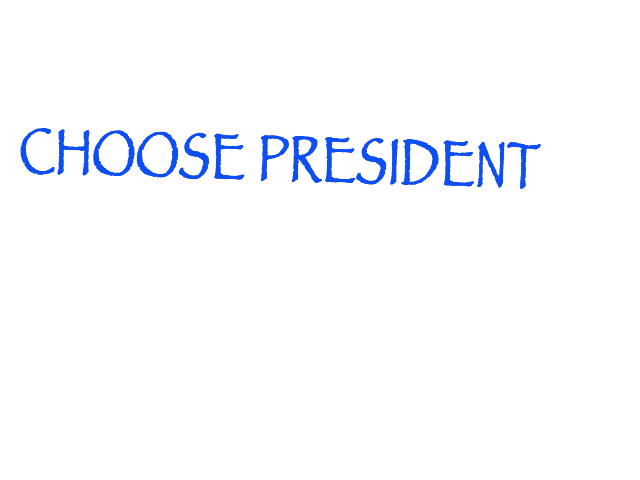
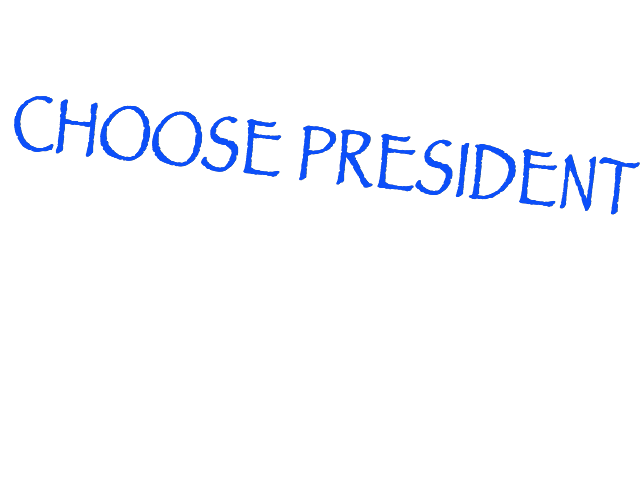
more styling. created factory fo rnavbar highlight, new template for choices.html

Changed region(s): [[0.0, 0.1875, 1.0, 0.4375]]

diff --git a/client/controllers.js b/client/controllers.js
@@ -1,11 +1,13 @@
 angular.module('newSpeakApp')
-.controller('MainController', function ($scope, grabSOTUinfo, transferData) {
-  $scope.test = 'this worked!';
-  $scope.greeting = "Resize the page to see the re-rendering";
+.controller('MainController', function ($scope, $location, grabSOTUinfo, transferData, navBar) {
+  navBar.highlight();
   $scope.presidents = transferData.presidents;
-  $scope.tempPresident = '';
-  $scope.president;
-  $scope.suggested;
+  $scope.tempPresident = transferData.tempPresident;
+  $scope.president = transferData.president;
+  $scope.suggested = transferData.suggested;
+  if ($scope.suggested === null && $location.$$url === '/choices') {
+    $location.url('/');
+  }
   $scope.setPres = function(pres) {
     $scope.president = pres;
     grabSOTUinfo.getTopWords($scope.president)
@@ -13,12 +15,19 @@ angular.module('newSpeakApp')
       return JSON.parse(data);
     })
     .then(function(parsed) {
-      $scope.suggested = parsed;
+      transferData.save(parsed, $scope.president, $scope.tempPresident);
+    }).then(function() {
+      $location.url('choices');
     });
   };
+  $scope.sendData = function(word) {
+    transferData.saveWord(word);
+    $location.url('charts');
+  };
 })
-.controller('collocationAndFrequencyController', function ($scope, grabSOTUinfo, treeConvert, graphConvert, transferData) {
-  $scope.hello = function(pres) {
+.controller('collocationAndFrequencyController', function ($scope, grabSOTUinfo, treeConvert, graphConvert, transferData, navBar) {
+  navBar.highlight();
+  $scope.startOver = function(pres) {
     alert(pres);
   };
   $scope.barData = [
@@ -46,9 +55,9 @@ angular.module('newSpeakApp')
         {word: 'putin', size: 1}
       ]
     };
-  $scope.tempPresident = '';
-  $scope.president;
-  $scope.word = '';
+  $scope.tempPresident = transferData.tempPresident;
+  $scope.president = transferData.president;
+  $scope.word = transferData.word;
   var series1 = [{x:1, y: 400}, {x:2, y: 30}, {x:3, y: 905}, {x:4, y: 150}];
   var series2 = [{x:1, y: 800}, {x:2, y: 300}, {x:3, y: 95}, {x:4, y: 550}];
   var series3 = [{x:1, y: 100}, {x:2, y: 320}, {x:3, y: 50}, {x:4, y: 550}];

diff --git a/client/style.css b/client/style.css
@@ -58,7 +58,7 @@
 }
 
 #menu ul {
-  font-size: 10px;
+  font-size: 13px;
   margin:0;
   padding:0;
   list-style: none;
@@ -72,7 +72,7 @@
 
 #menu li a {
   display: block;
-  padding: 20px 20px 19px 20px;
+  padding: 25px 20px 23px 20px;
   text-decoration: none;
   color: #fff;
   font-weight: bold;
@@ -108,16 +108,61 @@
   float: right;
 }
 
-.rightColumn.colfreq {
+#colfreq {
   text-align: center;
 }
 
-ul {
+#postPick {
+  text-align: center;
+}
+
+/**** main.html ***/
+
+#wordPic {
+  position: relative;
+  left: 200px;
+}
+
+#arrow {
+  position: relative;
+  top: -350px;
+}
+
+/**** choices.html ***/
+
+h1 {
+  font-family: fantasy;
+  color: rgb(12,79,249);
+  font-size: 46px;
+  margin-bottom: 10px;
+}
+
+h2 {
+  font-family: fantasy;
+  color: rgb(12,79,249);
+  font-size: 37px;
+  margin-top: 10px;
+}
+
+#postPick ul {
+  font-family: fantasy;
+  font-size: 25px;
+  list-style-type: none;
+  padding-left: 0px;
+}
+
+#postPick a:hover {
+  color: rgb(255, 26, 26);
+}
+
+/**** president list styling ***/
+
+.leftColumn ul {
   list-style-type: none;
   padding-left: 3px;
 }
 
-li:hover {
+.leftColumn li:hover {
   background: rgb(165, 184, 242);
 }
 

diff --git a/client/factories/transferData.js b/client/factories/transferData.js
@@ -2,9 +2,10 @@ angular.module('newSpeakApp')
 .factory('transferData', function() {
 
   var service = {
-    save: function(president, word) {
-      
-    },
+    suggested: null,
+    president: null,
+    tempPresident: '',
+    word: null,
 
     presidents: ['George Washington', 'John Adams', 'Thomas Jefferson', 'James Madison', 'James Monroe',
         'John Quincy Adams', 'Andrew Jackson', 'Martin Van Buren', 'William H. Harrison', 'John Tyler', 'James K. Polk',
@@ -14,7 +15,17 @@ angular.module('newSpeakApp')
         'Woodrow Wilson', 'Warren G. Harding', 'Calvin Coolidge', 'Herbert Hoover', 'Franklin D. Roosevelt',
         'Harry S. Truman', 'Dwight D. Eisenhower', 'John F. Kennedy', 'Lyndon B. Johnson', 'Richard M. Nixon',
         'Gerald R. Ford', 'Jimmy Carter', 'Ronald Reagan','George H. W. Bush', 'Bill Clinton', 'George W. Bush', 'Barack Obama'
-      ]
+      ],
+
+    save: function(words, president, tempPresident) {
+      this.suggested = words;
+      this.president = president;
+      this.tempPresident = tempPresident;
+    },
+
+    saveWord: function(word) {
+      this.word = word;
+    },
 
   };//end of service object
   

diff --git a/client/templates/main.html b/client/templates/main.html
@@ -1,26 +1,17 @@
-<h3>Welcome to the main screen</h3>
-
-{{ greeting }}
-{{suggested}}
-
 <div class='leftColumn'>
 	<form>
-	  <input type="text" placeholder="Type for president" ng-model="president" />
+	  <input type="text" placeholder="Type for president" ng-model="tempPresident" />
 	</form>
 
-	<ul ng-show="president === ''">
-	  <li ng-repeat='pres in presidents'>
-	    <a ng-click="setPres(pres)">{{ pres }}</a>
-	  </li>
+	<ul ng-show="tempPresident === ''">
+	  <li ng-repeat='pres in presidents' ng-click="setPres(pres)">{{ pres }}</li>
 	</ul>
-	<ul ng-show="president !== ''">
-  	<li ng-repeat='pres in presidents | filter: president'>
-    	<a ng-click="setPres(pres)">{{ pres }}</a>
-  	</li>
+	<ul ng-show="tempPresident !== ''">
+  	<li ng-repeat='pres in presidents | filter: tempPresident' ng-click="setPres(pres)">{{ pres }}</li>
 	</ul>
 </div>
 
-<div class='rightColumn main'>
-	<img id="choice" src="../images/choice.png">
+<div class='rightColumn'>
+	<img id="wordPic" src="../images/choice.png">
 	<img id="arrow" src="../images/arrow.png">
 </div>

diff --git a/client/index.html b/client/index.html
@@ -46,32 +46,7 @@
 		<script src="/client/factories/treeConvert.js"></script>
 		<script src="/client/factories/graphConvert.js"></script>
 		<script src="/client/factories/transferData.js"></script>
-		<script>
-			//script for navbar
-			var anchors = document.getElementsByTagName('a');
-			var menu = document.getElementById('menu');
-			var menuAnchors = menu.getElementsByTagName('a');
-			
-			var checkCurrent = function() {
-				for (a = 0; a < menuAnchors.length; a++) {
-					menuAnchors[a].className = null;
-					if (menuAnchors[a].hash === window.location.hash) {
-						menuAnchors[a].className += 'current';
-					}
-				}
-			};
-
-			//run initially
-			checkCurrent();
-
-			//set up listeners
-			for (var i = 0; i<anchors.length; i++) {
-				anchors[i].onclick = function() {
-					setTimeout(checkCurrent, 50);
-				};
-			}
-
-		</script>
+		<script src="/client/factories/navBar.js"></script>
 
 	</body>
 </html>

diff --git a/client/factories/navBar.js b/client/factories/navBar.js
@@ -1,0 +1,34 @@
+angular.module('newSpeakApp')
+.factory('navBar', function() {
+
+  var service = {
+    highlight: function() {
+			var menu = document.getElementById('menu');
+			var menuAnchors = menu.getElementsByTagName('a');
+			
+			var checkCurrent = function() {
+				for (a = 0; a < menuAnchors.length; a++) {
+					menuAnchors[a].className = null;
+					if (window.location.hash === menuAnchors[a].hash) {
+						menuAnchors[a].className += 'current';
+					} else if (window.location.hash === '#/choices' && menuAnchors[0].className !== 'current') {
+						menuAnchors[0].className += 'current';
+					}
+				}
+			};
+
+			//run initially
+			checkCurrent();
+
+			//set up listeners
+			for (var i = 0; i<menuAnchors.length; i++) {
+				menuAnchors[i].onclick = function() {
+					setTimeout(checkCurrent, 50);
+				};
+			}
+    }
+
+  };//end of service object
+  
+  return service;
+});

diff --git a/client/templates/collocationFrequency.html b/client/templates/collocationFrequency.html
@@ -10,19 +10,19 @@
 	  <input type="text" placeholder="Type for president" ng-model="president" />
 	</form>
 
-	<ul ng-show="president === ''">
+	<ul ng-show="tempPresident === ''">
 	  <li ng-repeat='pres in presidents'>
-	    <a ng-click="hello(pres)">{{ pres }}</a>
+	    <a ng-click="startOver(pres)">{{ pres }}</a>
 	  </li>
 	</ul>
-	<ul ng-show="president !== ''">
+	<ul ng-show="tempPresident !== ''">
   	<li ng-repeat='pres in presidents | filter: president'>
-    	<a ng-click="hello(pres)">{{ pres }}</a>
+    	<a ng-click="startOver(pres)">{{ pres }}</a>
   	</li>
 	</ul>
 </div>
 
-<div class='rightColumn colfreq'>
+<div class='rightColumn' id='colfreq'>
 		<coldir id="collocationChart" on-click="getSotus(word, tree)" data="colData"></coldir>
 		<freqdir id="frequencyChart" data="freqData"></freqdir>
 		<bardir bar-height="20" bar-padding="5" data="barData"></bardir>

diff --git a/client/templates/choices.html b/client/templates/choices.html
@@ -1,0 +1,26 @@
+<div class='leftColumn'>
+	<form>
+	  <input type="text" placeholder="Type for president" ng-model="tempPresident" />
+	</form>
+
+	<ul ng-show="tempPresident === ''">
+	  <li ng-repeat='pres in presidents' ng-click="setPres(pres)">
+	    <a href"#/choices">{{ pres }}</a>
+	  </li>
+	</ul>
+	<ul ng-show="tempPresident !== ''">
+  	<li ng-repeat='pres in presidents | filter: tempPresident' ng-click="setPres(pres)">
+    	<a href"#/choices">{{ pres }}</a>
+  	</li>
+	</ul>
+</div>
+
+<div class='rightColumn main' id='postPick'>
+	<h1><strong>TOP WORDS FOR {{ president.toUpperCase() }}</strong></h1>
+	<h2>choose word</h2>
+	<ul>
+		<li ng-repeat='word in suggested' ng-click="sendData(word)">
+	  	<a>{{ word }}</a>
+		</li>
+	</ul>
+</div>

diff --git a/client/main.js b/client/main.js
@@ -11,6 +11,10 @@ angular.module('newSpeakApp', [
     	controller: 'collocationAndFrequencyController',
     	templateUrl: '/client/templates/collocationFrequency.html'
     })
+    .when('/choices', {
+      controller: 'MainController',
+      templateUrl: '/client/templates/choices.html'
+    })
     .otherwise({
       redirectTo: '/'
     })
